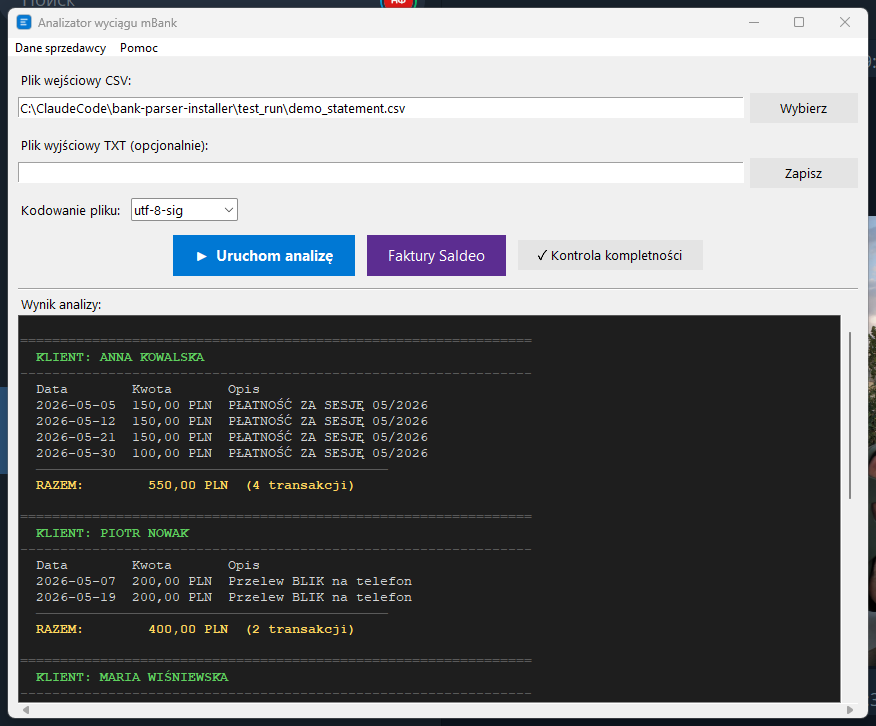
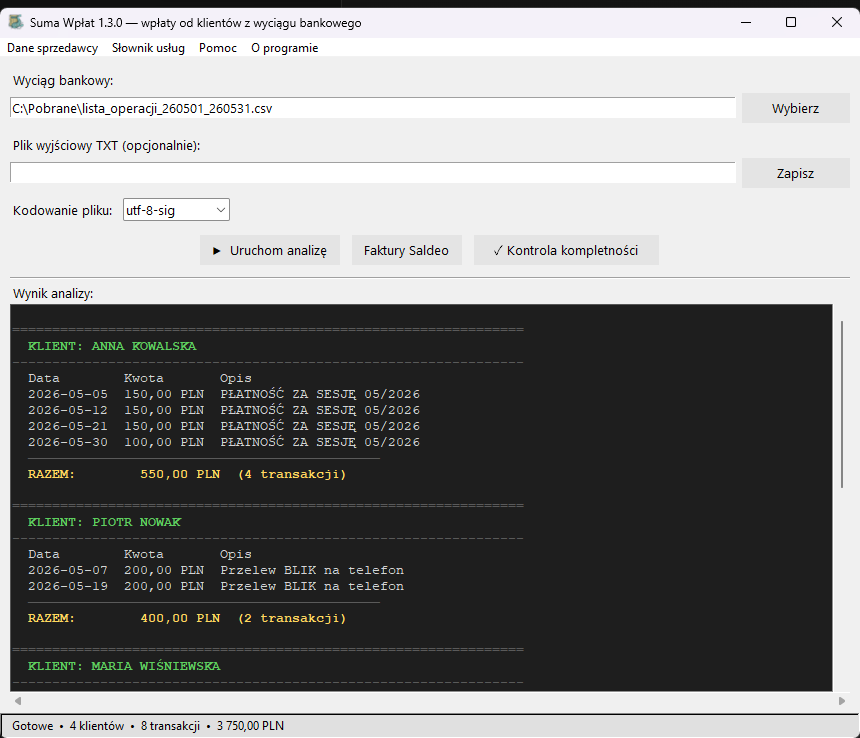
Aktualizacja pomocy + odswiezony zrzut ekranu
Pomoc:
- kodowanie pliku dotyczy tylko CSV z mBanku; XLS z PKO niesie kodowanie
  w sobie i to pole go nie dotyczy
- kontrola kompletnosci dzieli operacje na GRUPY, nie "na trzy": przy
  wyciagu PKO dochodzi czwarta, blokady kartowe
- FAQ o wysylaniu danych rozbite na dwa pytania i doprecyzowane. Odkad
  jest sprawdzanie aktualizacji, zdanie "nic nigdzie nie jest wysylane"
  bylo dla uwaznego czytelnika sprzeczne z rzeczywistoscia. Teraz wprost:
  program sam z siebie nie laczy sie nigdy, jedyne polaczenie powstaje
  po klknieciu "Sprawdz aktualizacje" i nie niesie danych o uzytkowniku,
  a przyciski ze stronami otwieraja przegladarke, ktora laczy sie sama
- nowe pytanie o rozmiar okna: jesli otworzylo sie na srodku w domyslnym
  rozmiarze, to znaczy, ze zapamietane polozenie wypadalo poza ekran
  (np. po odlaczeniu drugiego monitora)

Zrzut ekranu (docs/screenshot.png, byl z 09.07.2026, czyli z wersji 1.2):
- odswiezony: tytul z numerem wersji, pozycja "O programie" w menu,
  jednolite szare przyciski, pole "Wyciag bankowy"
- skrypt nie pokazuje juz sciezki roboczej autora, tylko
  C:\Pobrane\lista_operacji_260501_260531.csv
- kadr przyciety dokladnie do okna: wczesniej 8 px zapasu po bokach
  wpuszczalo w kadr pulpit zza okna

Changed region(s): [[0.0, 0.0, 1.0, 1.0], [0.8767, 0.1212, 0.9372, 0.1818], [0.907, 0.2121, 0.9372, 0.2424]]

diff --git a/src/app.py b/src/app.py
@@ -618,7 +618,9 @@ na jej podstawie faktury do importu w Saldeo.
      ścieżkę w polu „Plik wyjściowy TXT (opcjonalnie)” (krok ten można pominąć).
   3. Sprawdź „Kodowanie pliku” — zwykle właściwe jest „utf-8-sig”; jeżeli polskie
      litery (ą, ę, ś, ż...) wyświetlają się jako „krzaki”, zmień na „cp1250”
-     i uruchom analizę ponownie.
+     i uruchom analizę ponownie. Ustawienie dotyczy wyłącznie plików CSV
+     z mBanku; pliki XLS z PKO niosą kodowanie w sobie i to pole ich
+     nie dotyczy.
   4. Kliknij „▶ Uruchom analizę”. W oknie poniżej pojawi się raport: lista
      wpłat pogrupowana według klientów wraz z sumami miesięcznymi i łączną
      tabelą zbiorczą.
@@ -627,12 +629,14 @@ na jej podstawie faktury do importu w Saldeo.
 3. KONTROLA KOMPLETNOŚCI WYCIĄGU
 ─────────────────────────────────────────────────────────────────────────────
 Przycisk „✓ Kontrola kompletności” tworzy osobny raport, który dzieli
-WSZYSTKIE operacje z wyciągu na trzy grupy:
+WSZYSTKIE operacje z wyciągu na grupy:
 
   • KLIENCI — wpłaty od osób prywatnych (te same, które trafiają do głównego
     raportu i do faktur),
   • POZOSTAŁE WPŁYWY — inne przychody (od firm, zwroty, odsetki itp.),
-  • WYDATKI — wszystkie obciążenia konta.
+  • WYDATKI — wszystkie obciążenia konta,
+  • BLOKADY KARTOWE — tylko w wyciągach PKO i tylko wtedy, gdy jakieś są;
+    szczegóły niżej.
 
 Powtarzające się operacje (np. comiesięczne prowizje bankowe) są zwijane do
 jednego wiersza z liczbą wystąpień i łączną kwotą. Raport kończy SUMA
@@ -646,10 +650,10 @@ w całości do schowka („Kopiuj do schowka”) — np. do wklejenia w e-mailu.
 Wskazówka: przycisk działa niezależnie od głównej analizy — wystarczy, że
 wskazany jest plik z wyciągiem.
 
-W wyciągu PKO trafiają się „blokady kartowe” — kwoty zablokowane przez
-autoryzację karty, jeszcze nie zaksięgowane. Program pokazuje je osobną
-kategorią i NIE wlicza do sum: ta sama płatność wróci później na wyciąg jako
-zwykła operacja kartą i policzyłaby się drugi raz.
+Blokady kartowe to kwoty zablokowane przez autoryzację karty, jeszcze nie
+zaksięgowane — w wyciągu PKO nie mają nawet daty operacji. Program pokazuje
+je osobną kategorią i NIE wlicza do sum kontrolnych: ta sama płatność wróci
+później na wyciąg jako zwykła operacja kartą i policzyłaby się drugi raz.
 
 
 4. GENEROWANIE FAKTUR DLA SALDEO SMART
@@ -803,9 +807,23 @@ O: Saldeo nie przyjmuje zakresu dat w tym polu — program celowo wpisuje datę
    ostatniej wpłaty z danego miesiąca. To zgodne z przyjętą praktyką pracy.
 
 P: Czy moje dane (imię, numer konta) są gdzieś wysyłane?
-O: Nie. Wszystkie dane — Twoje dane sprzedawcy oraz wczytywane pliki — są
-   przetwarzane wyłącznie lokalnie, na Twoim komputerze, i nigdzie nie są
-   przesyłane.
+O: Nie. Wyciąg, dane sprzedawcy i wszystko, co program liczy, zostaje
+   wyłącznie na Twoim komputerze.
+
+P: Czy program łączy się z internetem?
+O: Sam z siebie nigdy — ani przy starcie, ani w tle. Jedyne połączenie
+   powstaje wtedy, gdy sam(a) klikniesz „Sprawdź aktualizacje” w oknie
+   „O programie”: program pyta wtedy GitHub o numer najnowszej wersji.
+   Nie wysyła przy tym niczego o Tobie ani o Twoim wyciągu. Przyciski
+   otwierające stronę programu czy Revolut uruchamiają zwykłą przeglądarkę
+   — to ona łączy się z siecią, nie program.
+
+P: Program otworzył się w innym rozmiarze niż ostatnio — dlaczego?
+O: Rozmiar i położenie okna są zapamiętywane przy zamykaniu. Jeśli okno
+   otworzyło się pośrodku ekranu w domyślnym rozmiarze, to znaczy, że
+   zapamiętane położenie wypadłoby poza obecny ekran — na przykład po
+   odłączeniu drugiego monitora. Program wtedy celowo wraca na środek,
+   żeby okno nie zniknęło poza krawędzią.
 
 
 9. O PROGRAMIE: WERSJA, AKTUALIZACJE, WSPARCIE AUTORA
